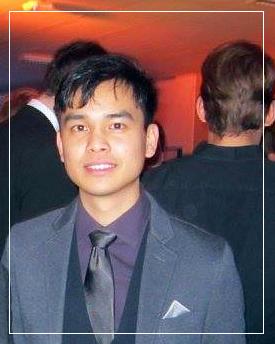
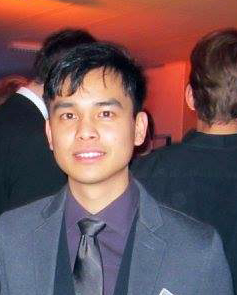
new profile and stucture

diff --git a/index.html b/index.html
@@ -54,35 +54,36 @@
 							<article class="post featured">
 								<header class="major">
 								<h2>About me</h2><p>Hello, my name is Dinh-An Ho and I am 27 years old. I am currently living in Germany and I am studying <b>Computer Science</b> in the Master's program at the <a href="https://en.wikipedia.org/wiki/RWTH_Aachen_University">RWTH Aachen University</a>.</p>									
-<p><span class="image left"><img src="images/test4.png" alt="" /></span>I was born in Germany (with Vietnamese roots) and I have always been enthusiastic about mathematical tasks and challenges. 
+<p><span class="image left"><img src="images/profile.png" alt="" /></span>I was born in Germany (with Vietnamese roots) and I have always been enthusiastic about mathematical tasks and challenges. 
 That is why I decided to study Computer Science. 
 I am also interested in the technological progress of our time and would like to contribute to the development of digitalization in whatever form (be it as a consultant, as a developer or as an analyst).
 My goal is to gain as much experience as possible, to adapt and to help with my knowledge.</p>
-<p><blockquote> <i>"I could either watch it happen or be part of it." - Elon Musk</i></blockquote></p>
-<p>Besides programming, my passion is painting. 
-I like to spend my free time with my family and friends, who inspire and motivate me with their passions. It is hard to name all of them. Anyway, these are some of my favorite interests:</p>
+<!--<p><blockquote> <i>"I could either watch it happen or be part of it." - Elon Musk</i></blockquote></p>-->
+<p>Besides programming, my passion is painting. I like to spend my free time with my family and friends, who inspire and motivate me with their passions. It is hard to name all of them. Anyway, these are some of my favorite interests:</p>
+<blockquote> <i>"I could either watch it happen or be part of it." - Elon Musk</i></blockquote>
 <!--<a href="#" class="image main"><img src="images/pic01.jpg" alt="" /></a>-->
 								</header>
 								<!--<ul class="actions special">
 									<li><a href="generic2.html" class="button large">My skills</a></li>
 								</ul>-->
-							</article>
 									<div class="row">
 										<div class="col-6 col-12-small">
 											<h3>Computer Science <i class="fas fa-network-wired"></i></h3>
 											<ul>
 												<p>I enjoy working on software. It motivates me to find new approaches to different problems.</p>
-												<div class="box alt">
+												<p><blockquote>"Everyone should learn how to code, it teaches you how to think." - Steve Jobs</blockquote></p>
+												<!--<div class="box alt">
 													<div class="row gtr-50 gtr-uniform">
 														<div class="col-4"><span class="image fit"><img src="images/ds4.png" alt="" /></span></div>
 														<div class="col-4"><span class="image fit"><img src="images/ai3.png" alt="" /></span></div>
 														<div class="col-4"><span class="image fit"><img src="images/bc3.png" alt="" /></span></div>
 													</div>
-												</div>
+												</div>-->
 											</ul>
 											<h3>Sport <i class="fas fa-volleyball-ball"></i></h3>
 											<ul class="alt">
-												<p>Whether it's soccer or volleyball, it is always a breathtaking feeling to win together with the team on the field. Everyone has his role, but only as a whole is it possible to win.</p>
+												<p>Whether it's soccer or volleyball, it is always a breathtaking feeling to win together with the team on the field. Everyone has his role, but only as a whole it
+												is possible to win.</p>
 												<p><blockquote>"We are team. One person struggles, we all struggle, one person triumphs, we all triumphs." - Lionel Messi</blockquote></p>
 											</ul>
 										</div>
@@ -110,6 +111,7 @@ I like to spend my free time with my family and friends, who inspire and motivat
 											</ul>
 										</div>
 									</div>
+						</article>
 						<!-- Posts -->
 						<h2>Projects <a href="https://github.com/ikasu93" class="icon brands fa-github"><span class="label">GitHub</span></a></h2>
 							<section class="posts">
@@ -120,7 +122,7 @@ I like to spend my free time with my family and friends, who inspire and motivat
 									<a href="images/threejs.png" class="image fit"><img src="images/threejs.png" alt="" /></a>
 									<p>In my bachelor thesis I developed a 3D visualization of a car model and a simple world for browser applications. Furthermore, a <a href= "http://www.monticore.de/languages/montiarc/">MontiArc</a> controller for autonomous driving was designed and an API between the visualization, the controller and the server was implemented with Java.</p>
 									<p><div><details><summary><strong>Abstract</strong></summary>
-<div align="left" style="margin-top: 12px;">In the current, self-driving cars are a huge topic especially because
+<div align="justify" style="margin-top: 12px;">In the current, self-driving cars are a huge topic especially because
 quality and safety are important factors for humanity. The mortality caused by traffic accidents due to human errors is relatively high.
 Research topics revolving around autonomous driving and the technology involved with it have made their appearance, as it has gained in
 importance but also in complexity.
@@ -160,22 +162,14 @@ the question on how to remotely control a car rendered in a browser.<br></br>
 									<a href="images/concept_overview2.png" class="image fit"><img src="images/concept_overview2.png" alt="" /></a>
 									<p>As part of my master thesis I have designed a guideline for data scientist to identify and be aware of biases in the data science lifecycle. The guideline is implemented as <a href="https://jupyter.org/">Jupyter Notebook</a> extension with JavaScript and Python. In addition, features were integrated, which allow tagging and autocompletion.</p>
 									<p><div><details><summary><strong>Abstract</strong></summary>
-<div align="left" style="margin-top: 12px;">In recent years, data science has become an indispensable part of our society. Over
-time, we have become reliant on this technology because of its opportunity to gain
-value and new insights from data in any field - business, socializing, research and
-society. The first phase of data science focused on the accuracy and efficiency of
-data and its algorithms. The second phase is now based on the growing dependency
-- due to convergence of big data, cloud computing, the use of new technologies, such
-as artificial intelligence (AI), machine learning algorithms, which allows automation
-for some tasks with better performance than humans. At the same time, it raises
-questions about how justified we are in placing our trust in these technologies.
-There is a risk that such powers may lead to biased, inappropriate or unintended
-actions. Automated decisions by AI may not be transparent and unfair towards
-certain groups. Each step in the data science process (from raw data to insight
-and knowledge retrieval) may create bias. Therefore, ethical considerations which
-might occur as the result of data science practices should be carefully considered
-and these potential problems should be identified during the data science lifecycle
-and mitigated if possible.
+<div align="justify" style="margin-top: 12px;">In recent years, data science has become an indispensable part of our society. Over time, we have become reliant on this technology because of its opportunity to gain
+value and new insights from data in any field - business, socializing, research and society. The first phase of data science focused on the accuracy and efficiency of
+data and its algorithms. The second phase is now based on the growing dependency - due to convergence of big data, cloud computing, the use of new technologies, such
+as artificial intelligence (AI), machine learning algorithms, which allows automation for some tasks with better performance than humans. At the same time, it raises
+questions about how justified we are in placing our trust in these technologies. There is a risk that such powers may lead to biased, inappropriate or unintended
+actions. Automated decisions by AI may not be transparent and unfair towards certain groups. Each step in the data science process (from raw data to insight
+and knowledge retrieval) may create bias. Therefore, ethical considerations which might occur as the result of data science practices should be carefully considered
+and these potential problems should be identified during the data science lifecycle and mitigated if possible.
 <br></br>
 This leads to the area of responsible data science (<a href="https://redasci.org/">RDS</a>).
 Aspects of RDS centers around data ethics, e.g. achieving fair, consensual, transparent
@@ -235,7 +229,7 @@ evaluated by computer scientist for its usability and user experience.
 									<p>This project focuses on the data science and analysis of survey data by <a href="https://www.ame.rwth-aachen.de/go/id/nsnq/?lidx=1">AME</a> and is an important basis for an elaborated validation of their machine learning classifier of medical patents.
 									</p>
 									<p><div><details><summary><strong>Description</strong></summary>
-<div align="left" style="margin-top: 12px;">The <a href="https://www.ame.rwth-aachen.de/go/id/nsnq/?lidx=1">AME</a> conducted a survey with multiple biomedical experts to collect altogether over 1000 ratings on patents to validate the classifier. The goal is to determine the final clear label for a patent, which has multiple ratings of experts with potential differences in expertise for a specific field of the biomedical domain. 
+<div align="justify" style="margin-top: 12px;">The <a href="https://www.ame.rwth-aachen.de/go/id/nsnq/?lidx=1">AME</a> conducted a survey with multiple biomedical experts to collect altogether over 1000 ratings on patents to validate the classifier. The goal is to determine the final clear label for a patent, which has multiple ratings of experts with potential differences in expertise for a specific field of the biomedical domain. 
 The main challenge is to investigate the characteristics of the experts having impact on the ratings.
 <br></br>
 In this project, we have aggregated the answers of different patent survey participants to find a consistent classification. The average has proven that it provides unexpectedly accurate collective judgements. In this project, the broad approach would be to find weightings from a set of participants to aggregate all opinions into one. This is achieved by evaluating factors that are important for the final result. To find the factors, we have analyzed characteristics of the participants such as self-confidence, expertise or behavioral characteristics, vary them and observe the change. To find these characteristics in our project, I have analyzed the expert survey for different factors.
@@ -262,7 +256,7 @@ In this project, we have aggregated the answers of different patent survey parti
 									<p></p>
 									<p>	In a team of four students, we have built a bundle interconnected top level components of a model (let's assume we have a car model with several components which describes driving functions, etc.) into different clusters. The aim is to reduce connection and communication overhead between components by grouping affine components into different clusters which then are connected using a middleware (<a href= "https://www.ros.org/">ROS</a>). <p><div><details><summary><strong>Description</strong></summary>
 									</p>
-									<div align="left" style="margin-top: 12px;">First of all, we have converted the <a href= "https://en.wikipedia.org/wiki/Symbol_table">symbol table</a> of a component into an adjacency matrix. Then, we have fed the adjacency matrix into the selected clustering algorithm. The clustering algorithm we used are the following: <a href="https://scikit-learn.org/stable/modules/generated/sklearn.cluster.SpectralClustering.html">Spectral clustering</a> and <a href="https://micans.org/mcl/">Markov clustering</a>. We generate middleware tags separating the clusters. This will build the cluster-to-ROS connections. A connection will be established if the target cluster label is different from the source cluster label thus connecting different clusters with each other. Finally, we have fed the result into existing manual clustering architecture. 
+									<div align="justify" style="margin-top: 12px;">First of all, we have converted the <a href= "https://en.wikipedia.org/wiki/Symbol_table">symbol table</a> of a component into an adjacency matrix. Then, we have fed the adjacency matrix into the selected clustering algorithm. The clustering algorithm we used are the following: <a href="https://scikit-learn.org/stable/modules/generated/sklearn.cluster.SpectralClustering.html">Spectral clustering</a> and <a href="https://micans.org/mcl/">Markov clustering</a>. We generate middleware tags separating the clusters. This will build the cluster-to-ROS connections. A connection will be established if the target cluster label is different from the source cluster label thus connecting different clusters with each other. Finally, we have fed the result into existing manual clustering architecture. 
 									Using <a href="https://en.wikipedia.org/wiki/Monte_Carlo_method">Monte Carlo simulation</a>, we then generated random costs for the cluster-to-ROS connectgions and compared these with the results of the costs from the adopted clustering algorithms.
 									The following diagram shows the Monte Carlo costs for 1000 iterations and 3 cluster formations for the autopilot model.</p>
 									<a href="images/montecarlo.png" class="image fit"><img src="images/montecarlo.png" alt="" /></a>
@@ -282,7 +276,7 @@ In this project, we have aggregated the answers of different patent survey parti
 										<a href="images/ego.PNG" class="image fit"><img src="images/ego.PNG" alt="" /></a>
 										<p>The target of the hackathon is the development of approaches for improving station-based carsharing. The given scenario is considered to be a landlord who offers e.Base Home, a carsharing service, to his tenants in a sub-urban neighbourhood. Although it was well received, it turned out that the service was not cost covering due to a low rate of utilization. Due to the landlord's desire to be climate-friendly, not only profitability is to be increased, but emissions are also to be reduced. Other factors to be considered are the improvement of charging behaviour of the users and the intuitive use of the interface. Moreover, an implementation of gamification is expected in order to enhance user engagement.</p>
 										<div><details><summary><strong>Procedure</strong></summary>
-<div align="left" style="margin-top: 12px;"> We extended the existing application by two main features: repeated bookings and gamification. We developed our features using Python and for the user interface we additionally employed the framework Kivy. We set up a client-server architecture with "bottle" to simulate a realistic usage environment. The server can use the API to access the database (which includes booking and vehicle information). The other databases such as the ones containing user data and recurring booking information have been hacked together by storing python data types with pickles. The server repeatedly/regularly runs a task to check if the repeating bookings have been added to the booking database and if not, adds the missing bookings. Due to the lack of real data, we generated fictional bookings to prove the feasability of our implementation. The main.py file provides the graphical user interface functionality and uses the functions in the client.py file to communicate with the server.
+<div align="justify" style="margin-top: 12px;"> We extended the existing application by two main features: repeated bookings and gamification. We developed our features using Python and for the user interface we additionally employed the framework Kivy. We set up a client-server architecture with "bottle" to simulate a realistic usage environment. The server can use the API to access the database (which includes booking and vehicle information). The other databases such as the ones containing user data and recurring booking information have been hacked together by storing python data types with pickles. The server repeatedly/regularly runs a task to check if the repeating bookings have been added to the booking database and if not, adds the missing bookings. Due to the lack of real data, we generated fictional bookings to prove the feasability of our implementation. The main.py file provides the graphical user interface functionality and uses the functions in the client.py file to communicate with the server.
 	The server.py should be started as a background process first and will listen for requests from the client. It uses functions from the control.py and api_control.py files to access the database trough the API.</div>
 </details></div>
 &nbsp;

diff --git a/assets/css/main.css b/assets/css/main.css
@@ -2963,7 +2963,7 @@ input, select, textarea {
 
 			header.major > p {
 				margin-top: 0;
-				text-align: center;
+				text-align: justify;
 			}
 
 			header.major > .date {
